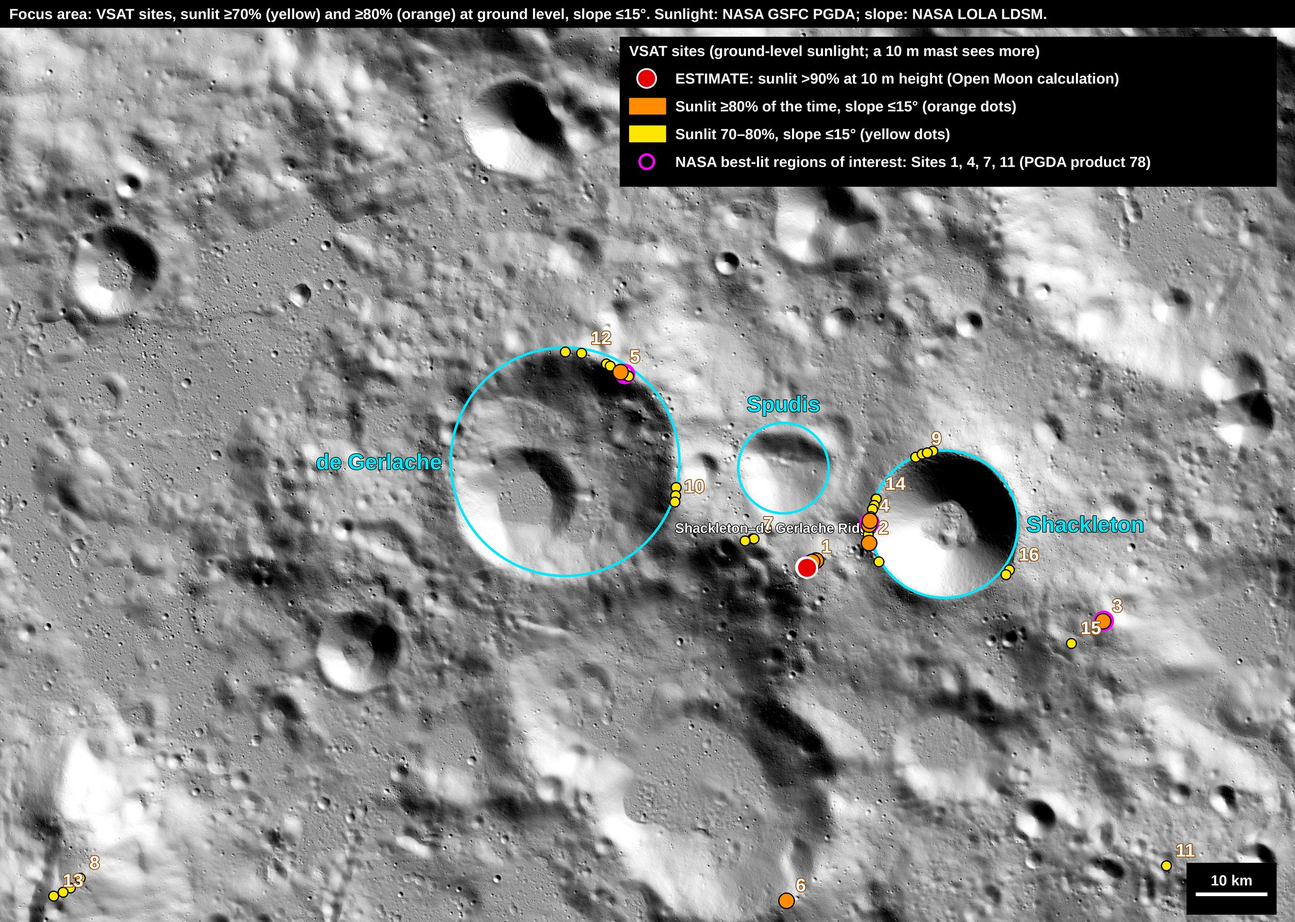
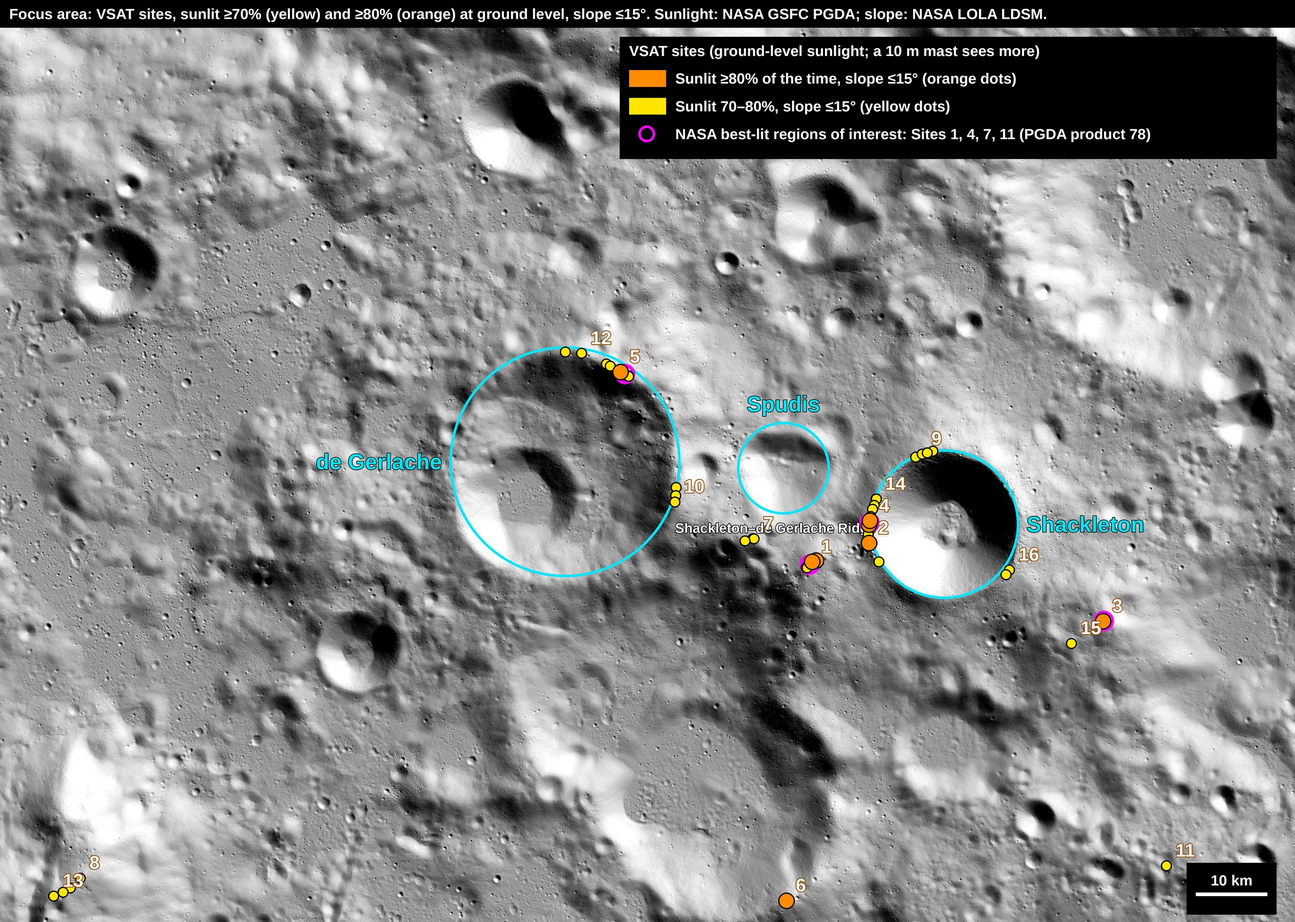
M00: remove 10 m sunlight estimates; VSAT sites use NASA ground-level figures only
Claude-Session: https://claude.ai/code/session_01EMgvSv8Ki6A9jj7v8eiV3S

Changed region(s): [[0.4688, 0.062, 1.0, 0.217], [0.5938, 0.5889, 0.6562, 0.6199]]

diff --git a/analysis/sunlight/mk_sun.py b/analysis/sunlight/mk_sun.py
@@ -11,7 +11,7 @@ from rasterio.windows import from_bounds
 ILL, ROIDIR, OUTDIR = sys.argv[1], sys.argv[2], sys.argv[3]
 import csv as _csv
 _est = os.path.join(os.path.dirname(os.path.abspath(__file__)), 'sun_at_height_estimate.csv')
-RED = [(float(r['x_m']), float(r['y_m'])) for r in _csv.DictReader(open(_est)) if float(r['est_10m_pct']) > 90] if os.path.exists(_est) else []
+RED = []
 font = lambda sz: ImageFont.truetype(FB, int(sz))
 fx0, fy1 = px2m(292, 518); fx1, fy0 = px2m(953, 989); B = (fx0, fy0, fx1, fy1); RES = 60
 with rasterio.open(ILL) as r:
@@ -108,7 +108,7 @@ for sp in spots:
 with open(os.path.join(os.path.dirname(os.path.abspath(__file__)), 'vsat_spots.csv'), 'w') as fh:
     fh.write('sunlit_pct,lat,lon_east,x_m,y_m\n')
     for sp in spots: fh.write('%.1f,%.4f,%.3f,%.0f,%.0f\n' % sp)
-rows = [('red', 'ESTIMATE: sunlit >90% at 10 m height (Open Moon calculation)'), ((255, 140, 0), 'Sunlit ≥80% of the time, slope ≤15° (orange dots)'), ((255, 230, 0), 'Sunlit 70–80%, slope ≤15° (yellow dots)'), (None, 'NASA best-lit regions of interest: Sites 1, 4, 7, 11 (PGDA product 78)')]
+rows = [((255, 140, 0), 'Sunlit ≥80% of the time, slope ≤15° (orange dots)'), ((255, 230, 0), 'Sunlit 70–80%, slope ≤15° (yellow dots)'), (None, 'NASA best-lit regions of interest: Sites 1, 4, 7, 11 (PGDA product 78)')]
 decorate(im, 'Focus area: VSAT sites, sunlit ≥70% (yellow) and ≥80% (orange) at ground level, slope ≤15°. Sunlight: NASA GSFC PGDA; slope: NASA LOLA LDSM.',
          rows, 'VSAT sites (ground-level sunlight; a 10 m mast sees more)', numbers=sites, dots=dots, red=RED).save(os.path.join(OUTDIR, 'focus-vsat-candidates.jpg'), quality=85, optimize=True)
 for t in (70, 80, 85): print('sunlit>=%d%% & slope<=15: %.1f km2' % (t, ((il >= t) & ok).sum() * RES * RES / 1e6))

diff --git a/_milestones/m00-site-selection.md b/_milestones/m00-site-selection.md
@@ -235,7 +235,7 @@ VSAT sites (plan design) are spots on slopes of 15° or less (the VSAT goal with
 - **Orange dots, sites 1–6:** sunlit at least **80 %** of the time.
 - **Yellow dots, sites 7–16:** sunlit **70–80 %** of the time.
 
-Spots below 70 % are left out. Each dot marks a 1 km cell holding such a spot, and the numbers match the table below; the spots themselves cover about 0.1 km² (≥80 %) and 0.6 km² (≥70 %) of the focus area. Magenta circles are NASA's regions of interest (Sites 1, 4, 7 and 11). Dots and percentages in the table are **ground-level** figures from NASA's map; a 10 m mast sees more sun. The red dot marks spots estimated above 90 % at 10 m (next section). No spot in the focus area reaches 90 % at ground level; the highest is 88.4 %.
+Spots below 70 % are left out. Each dot marks a 1 km cell holding such a spot, and the numbers match the table below; the spots themselves cover about 0.1 km² (≥80 %) and 0.6 km² (≥70 %) of the focus area. Magenta circles are NASA's regions of interest (Sites 1, 4, 7 and 11). Dots and percentages in the table are **ground-level** figures from NASA's map; a 10 m mast sees more sun. No spot in the focus area reaches 90 % at ground level; the highest is 88.4 %.
 
 ![VSAT sites in the Open Moon focus area: orange dots sunlit at least 80 %, yellow dots 70–80 %, slope of 15° or less, with NASA's regions of interest circled]({{ '/assets/sites/focus-vsat-candidates.jpg' | relative_url }})
 
@@ -261,26 +261,6 @@ The 16 sites (best single 60 m pixel in each, ground level, slope ≤15°), from
 | 16 | Yellow | Below-right of Shackleton, about 21 km from the pole | 89.2990°S, 127.34°E | 72.2 % |
 
 *Open Moon's reading of NASA's map (sites are cells within 3 km of each other); the cell list is in `analysis/sunlight/vsat_spots.csv`. NASA ranks Site 1 (Connecting ridge) as having the most area with average sunlight above 70 % at 1 m height, with its regions 4–6 the most favourable<sup class="r">[31](#s31)</sup>. At 10 m, the Connecting ridge is lit 95.65 % of the time<sup class="r">[32](#s32)</sup>, the only published value above 90 % here.*
-
-### Sunlight at 5 m and 10 m (ESTIMATE)
-
-NASA publishes sunlight maps only at ground level, so Open Moon calculated sunlight at mast height itself (**ESTIMATE**, this plan's own calculation). For each of 136 candidate spots (every 1 km cell with a spot sunlit at least 60 % at ground level, slope ≤15°), it traced the horizon in 720 directions over NASA's LOLA terrain (60 m near the spot, 80 m out to 210 km, allowing for the Moon's curvature)<sup class="r">[18](#s18)</sup>, and tested it against the Sun's position every 2 hours for 18.6 years from NASA/JPL's DE421 ephemeris and Moon orientation files.
-
-- **Check against NASA:** at 60 random points in the focus area, the ground-level result matches NASA's map<sup class="r">[30](#s30)</sup> to within 1.6 points on average (RMS 2.2 points, correlation 0.99), slightly low.
-- **Red dots:** spots estimated to be sunlit **more than 90 % of the time at 10 m**.
-
-| Spot | Ground (NASA map) | 5 m (ESTIMATE) | 10 m (ESTIMATE) |
-|---|---|---|---|
-| **Connecting ridge, 89.4368°S, 137.22°W (red)** | 75.5 % | 89.2 % | **91.7 %** |
-| **Connecting ridge, 89.4380°S, 137.65°W (red)** | 75.1 % | 88.4 % | **91.2 %** |
-| Connecting ridge, site 1, 89.4745°S, 137.53°W | 88.4 % | 87.1 % | 89.1 % |
-| Shackleton west rim, site 4, 89.7837°S, 156.07°W | 85.5 % | 85.7 % | 86.5 % |
-| Shackleton west rim, site 2, 89.6857°S, 163.04°W | 87.1 % | 85.4 % | 85.7 % |
-| Shackleton west rim, 89.6844°S, 163.49°W | 77.7 % | 82.6 % | 85.4 % |
-
-- **Both red spots are on the Connecting ridge, about 430 m apart, beside LROC's ridge summit (89.4385°S, 137.18°W).** They show as one red dot at site 1 on the map. No other spot in the focus area reaches 90 % at 10 m in this estimate.
-- **For comparison, a published figure:** Gläser et al. found 95.65 % at 10 m for the best ridge point<sup class="r">[32](#s32)</sup>; this estimate is a few points lower, as its ground-level check also runs slightly low.
-- Height raises sunlight by about 7 points on average between the ground and 10 m across the 136 spots. All results are in `analysis/sunlight/sun_at_height_estimate.csv`.
 
 - **Best VSAT ground:** the Connecting ridge (site 1) and Shackleton's west rim (sites 2 and 4), all on the Shackleton–de Gerlache Ridge. With the yellow sites along the same ridge (7, 10 and 14), a chain of VSATs along the ridge could feed a base there.
 - **Spread out for shadows:** no spot is lit all the time. Two ridge points about 8 km apart are lit a combined ~94 % of the year (see the sunlight table above), so the plan spreads VSATs over several of these sites.

diff --git a/analysis/sunlight/README.md b/analysis/sunlight/README.md
@@ -14,11 +14,3 @@ Data:
 Plan design: VSAT sites = sunlit ≥80 % (orange) or 70–80 % (yellow) at ground level and slope ≤15° (NASA's VSAT terrain-slope goal
 with a 10 m mast). Ground-level sunlight understates what a 10 m mast sees.
 
-## Sunlight at height (ESTIMATE)
-
-`sun_at_height.py` computes average sunlight at 0.5 m, 5 m and 10 m for the candidate spots (`cands.npy`: every 1 km
-cell with a spot ≥60 % sunlit at ground level and slope ≤15°). Inputs: LOLA `LDEM_83S_10MPP_ADJ` (20 m block-averaged
-to 60 m within 12 km; 80 m to 210 km) and Sun directions every 2 h over 18.6 years from NAIF kernels `de421.bsp`,
-`moon_pa_de421_1900-2050.bpc`, `moon_080317.tf` (frame MOON_ME_DE421, via skyfield). Results: `sun_at_height_estimate.csv`.
-Validation: ground-level results at 60 random points match NASA's AVGVISIB_85S_060M map, mean −1.6 points, RMS 2.2, r = 0.99.
-`mk_sun.py` draws spots with >90 % at 10 m as red dots.
